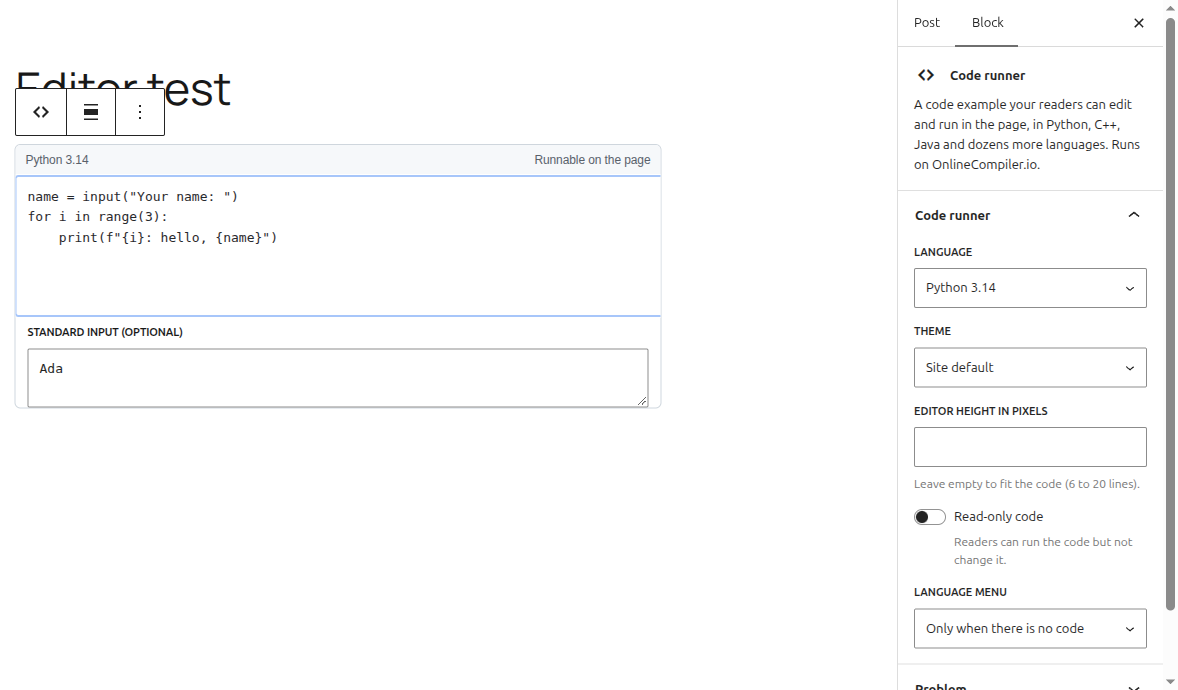
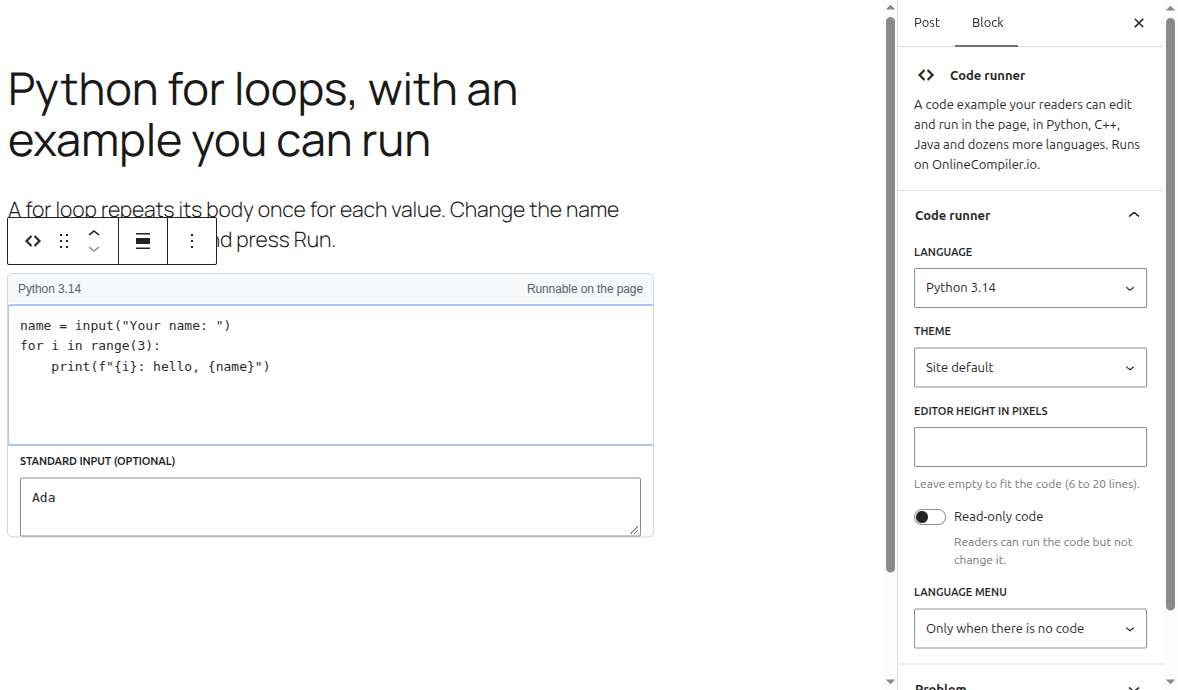
Say that stored problems are judged against their sample tests and connect when the page loads, and retake the screenshots on a real post.

diff --git a/blocks/code-runner/editor.js b/blocks/code-runner/editor.js
@@ -102,7 +102,7 @@
 					{ title: __( 'Problem', 'onlinecompiler-io-code-runner' ), initialOpen: !! problem },
 					el( TextControl, withCommon( {
 						label: __( 'Problem id', 'onlinecompiler-io-code-runner' ),
-						help: __( 'A problem stored in your OnlineCompiler.io account: readers see its statement and judge their code against its tests. It replaces the code and input here.', 'onlinecompiler-io-code-runner' ),
+						help: __( 'A problem stored in your OnlineCompiler.io account: readers see its statement and starter code, and judge their code against its sample tests. It replaces the code and input here.', 'onlinecompiler-io-code-runner' ),
 						value: a.problem,
 						onChange: function ( value ) { set( { problem: value } ); },
 					} ) )
@@ -120,7 +120,7 @@
 			);
 
 			var body = problem
-				? el( 'div', { className: 'onlinecompiler-block__note' }, __( 'Readers will see this problem, with its statement, starting code and tests, loaded from your account.', 'onlinecompiler-io-code-runner' ) )
+				? el( 'div', { className: 'onlinecompiler-block__note' }, __( 'Readers will see this problem, with its statement, starter code and sample tests, loaded from your account.', 'onlinecompiler-io-code-runner' ) )
 				: [
 					el( PlainText, {
 						key: 'code',

diff --git a/README.md b/README.md
@@ -19,7 +19,7 @@ Requires WordPress 6.3 or later and PHP 7.4 or later.
 
 ## Use it
 
-**Block editor:** add a **Code runner** block, write the code and, if the program reads input, its standard input. The sidebar sets the language, theme, height, read-only code and the language menu. Put a stored problem's id under **Problem** to show that problem, with its statement and tests, instead.
+**Block editor:** add a **Code runner** block, write the code and, if the program reads input, its standard input. The sidebar sets the language, theme, height, read-only code and the language menu. Put a stored problem's id under **Problem** to show that problem instead, with its statement, starter code and sample tests.
 
 ![The Code runner block in the WordPress block editor, with its settings](.wordpress-org/screenshot-2.png)
 
@@ -70,9 +70,9 @@ What is sent where is listed under "External services" in [readme.txt](readme.tx
 
 **Does the code run on my server?** No. Each run gets a fresh sandbox on OnlineCompiler.io with no network access, thrown away afterwards.
 
-**Does it slow the page?** The widget script loads only on pages with a Code runner, deferred, and each runner connects when it scrolls into view.
+**Does it slow the page?** The widget script loads only on pages with a Code runner, deferred, and each runner connects when it scrolls into view (a stored problem connects when the page loads).
 
-**Can students be graded?** Yes: show a problem stored in your OnlineCompiler.io account, with its statement and hidden tests, and readers judge their code against it.
+**Can readers' code be checked against tests?** Yes: show a problem stored in your OnlineCompiler.io account, and readers judge their code against its sample tests. Grading against hidden tests needs a session from your own server, which the plugin doesn't create ([widget docs](https://onlinecompiler.io/docs/widget)).
 
 **Is it free?** The plugin is free and open source. Running code uses your OnlineCompiler.io account, which has a free plan with no credit card ([pricing](https://onlinecompiler.io/pricing)).
 
